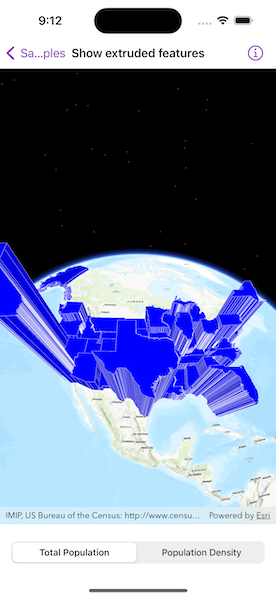
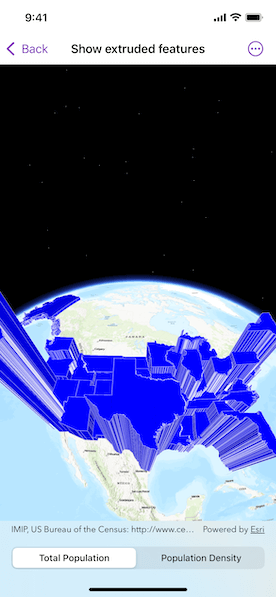
Move picker into segmented control.

diff --git a/Shared/Samples/Show extruded features/ShowExtrudedFeaturesView.swift b/Shared/Samples/Show extruded features/ShowExtrudedFeaturesView.swift
@@ -30,18 +30,20 @@ struct ShowExtrudedFeaturesView: View {
     var body: some View {
         VStack {
             SceneView(scene: scene)
-            
-            // Unit system picker.
-            Picker("Statistic", selection: $statisticSelection) {
-                ForEach(Statistic.allCases, id: \.self) { stat in
-                    Text(stat.label)
+                .toolbar {
+                    ToolbarItem(placement: .bottomBar) {
+                        // Unit system picker.
+                        Picker("Statistic", selection: $statisticSelection) {
+                            ForEach(Statistic.allCases, id: \.self) { stat in
+                                Text(stat.label)
+                            }
+                        }
+                        .pickerStyle(.segmented)
+                        .onChange(of: statisticSelection) {
+                            featureLayer.renderer?.sceneProperties.extrusionExpression = statisticSelection.extrusionExpression
+                        }
+                    }
                 }
-            }
-            .pickerStyle(.segmented)
-            .padding()
-            .onChange(of: statisticSelection) {
-                featureLayer.renderer?.sceneProperties.extrusionExpression = statisticSelection.extrusionExpression
-            }
         }
     }
 }
